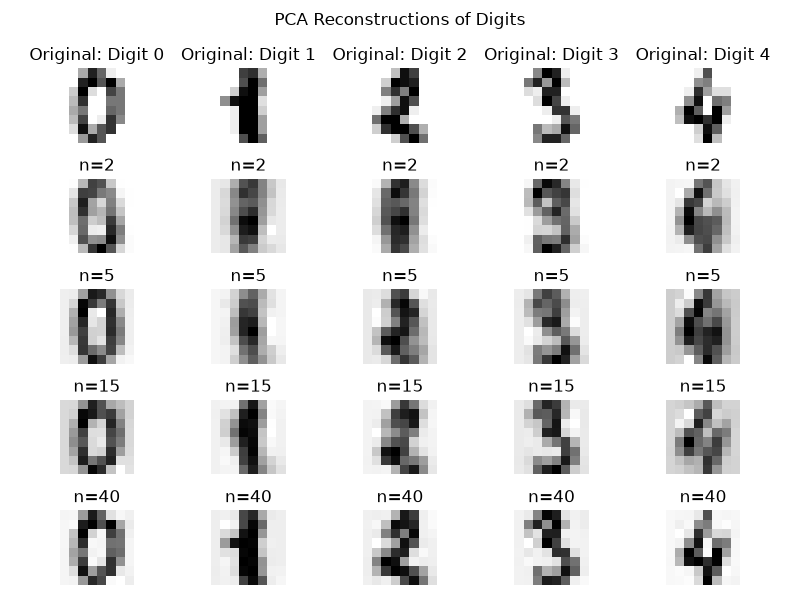
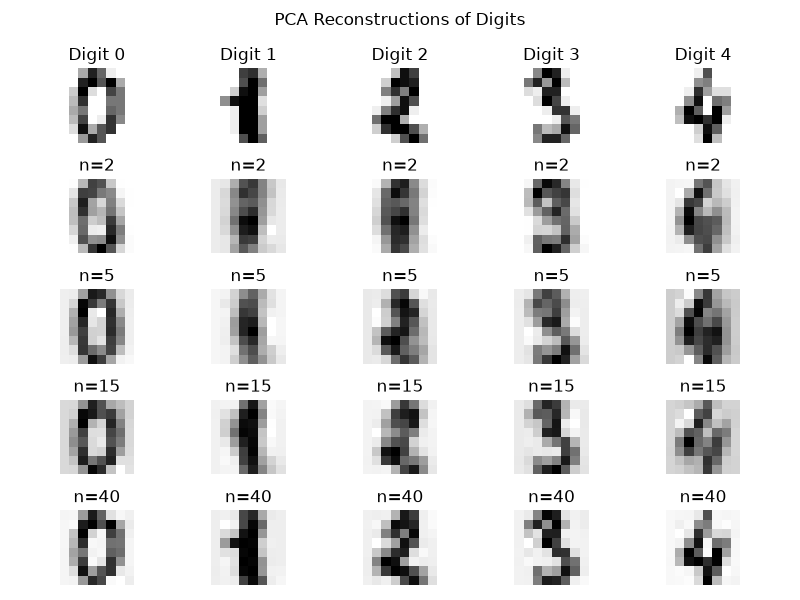
revisions 7

diff --git a/assignments_03/project_03.py b/assignments_03/project_03.py
@@ -205,7 +205,9 @@ for name, (model, Xtr, Xte) in models.items():  # doesn't overwrite the datasets
     print(f"{name} -- Accuracy: {accuracy_score(y_test, y_pred):.4f}")
     print(classification_report(y_test, y_pred))
 
-# KNN performs poorly on unscaled data, as distance calculations are dominated by features with large numeric ranges (such as "capital_run_length_total" and "capital_run_length_longest"). After scaling, all features contribute equally to distances and improves KNN accuracy by ~0.10. KNN with PCA slightly outperformed scaled KNN, matching Task 2 because PCA removed redundant dimensions while preserving most of the variance. A linear model like Logistic Regression performed decently with scaled features, but slightly worse with PCA reduction.
+# KNN Comparison: KNN performs poorly on the unscaled data because distance calculations are dominated by features with large numeric ranges. Scaling greatly improves performance because all features contribute more equally. Applying PCA after scaling gives a small additional improvement, suggesting that removing redundant dimensions benefits KNN.
+
+# Logistic Regression Comparison: Logistic Regression performs well on the scaled data, but reducing the features with PCA produces slightly lower accuracy. For this dataset, PCA removes some information that the linear classifier can still use, so the non-PCA version is preferred.
 
 # Random Forest performs the best, likely due to how it combines numerous decision trees and averages their predictions. This reduces variance and increases generalization. For this particular dataset, I would use Random Forest for its higher precision on spam (ham labelled as spam, where it makes fewer false positives than false negatives) to minimize the amount of legitimate emails marked incorrectly as spam. False negatives letting some spam through can be easily dealt with through manual user intervention, which I think is a tolerable compromise.
 
@@ -218,14 +220,11 @@ for depth in [3, 5, 10, None]:
     print(
         f"max_depth={depth}: Training Accuracy: {train_acc:.4f}, Testing Accuracy: {test_acc:.4f}"
     )
-# Printed results of Decision Tree Depths
-# max_depth=3: Training Accuracy: 0.8799, Testing Accuracy: 0.8664
-# max_depth=5: Training Accuracy: 0.9223, Testing Accuracy: 0.9001
-# max_depth=10: Training Accuracy: 0.9707, Testing Accuracy: 0.9251
-# max_depth=None: Training Accuracy: 0.9995, Testing Accuracy: 0.9186
 
 # The training accuracy approaches 1.0 as max_depth increased, but testing accuracy started to drop (as with the case of depth=None where Training Accuracy reaches 0.9995 but Testing Accuracy begins drops to 0.9186). These could be a sign of overfitting as the model starts memorizing the training data instead of leaning general patterns.
-# depth=10 will be selected because it gave the highest test accuracy while avoiding the stronger overfitting seen with an unrestricted tree, and it is a good balance between training and test performance.
+
+# I would choose max_depth=10 for production because it achieved the highest testing accuracy while keeping the gap between training and testing accuracy much smaller than the unrestricted tree. Although depth=None nearly memorizes the training set (99.95% accuracy), its lower testing accuracy indicates overfitting. Depth=10 provides the best balance between model complexity and generalization.
+
 CHOSEN_DEPTH = 10
 dt_final = DecisionTreeClassifier(random_state=42, max_depth=CHOSEN_DEPTH)
 dt_final.fit(X_train, y_train)
@@ -270,7 +269,7 @@ print("Bar chart of Random Forest importances saved.\n")
 # Both decision tree and random forest rank "char_freq_$", "word_freq_remove", and 'char_freq_!' near the top as the most important features. This matches intuition, suggesting that punctuation like dollar signs and exclamation marks tend to be signs of spam.
 
 # ---------------------------------------------------------------------------- #
-print("\n\n------ Task 4: A Classifier Comparison")
+print("\n\n------ Task 4: Cross-Validation")
 
 cv_models = [
     (
@@ -343,7 +342,8 @@ rf_pipeline = Pipeline(  # Random Forest (best tree model)
     [("classifier", RandomForestClassifier(n_estimators=100, random_state=42))]
 )
 
-# Logistic Regression on scaled data > get manual accuracy results
+# Logistic Regression was selected because it achieved the best performance among the non-tree-based models in Task 3. Random Forest was selected because it achieved the highest overall accuracy among the tree-based models.
+
 lr_manual = LogisticRegression(C=1.0, max_iter=1000, solver="liblinear").fit(
     X_train_scaled, y_train
 )

diff --git a/assignments_03/warmup_03.py b/assignments_03/warmup_03.py
@@ -159,16 +159,23 @@ print("pca_2d_projection.png saved.\n")
 
 print("------ PCA Q3")
 cumulative_variance = np.cumsum(pca.explained_variance_ratio_)
+n80 = np.argmax(cumulative_variance >= 0.80) + 1
 plt.figure(figsize=(8, 6))
 plt.plot(range(1, len(cumulative_variance) + 1), cumulative_variance, marker="o")
+plt.axhline(0.80, color="red", linestyle="--", label="80% variance")
+plt.axvline(n80, color="green", linestyle="--", label=f"{n80} components")
 plt.xlabel("Number of Components")
 plt.ylabel("Cumulative Explained Variance")
 plt.title("Explained Variance vs. Number of Components")
+plt.legend()
 plt.grid()
 plt.savefig("outputs/pca_variance_explained.png")
 plt.close()
+print(f"80% explained variance is reached at approximately {n80} components.")
 print("pca_variance_explained.png saved.\n")
-# The 80% variance threshold is reached around n=40 components, as seen in the cumulative explained variance plot.
+# The cumulative explained variance curve reaches the 80% threshold at approximately
+# n = {n80} principal components, so about {n80} components are needed to explain
+# 80% of the variance in the digit dataset.
 
 
 print("------ PCA Q4")
@@ -187,8 +194,9 @@ def reconstruct_digit(sample_idx, scores, pca, n_components):
 fig, axes = plt.subplots(len(n_values) + 1, len(sample_indices), figsize=(8, 6))
 for col, idx in enumerate(sample_indices):  # original images (top row)
     axes[0, col].imshow(images[idx], cmap="gray_r")
-    axes[0, col].set_title(f"Original: Digit {y_digits[idx]}")
+    axes[0, col].set_title(f"Digit {y_digits[idx]}")
     axes[0, col].axis("off")
+axes[0, 0].set_ylabel("Original")
 for row, n in enumerate(n_values, start=1):  # reconstructions
     for col, idx in enumerate(sample_indices):
         reconstructed = reconstruct_digit(idx, scores, pca, n)
